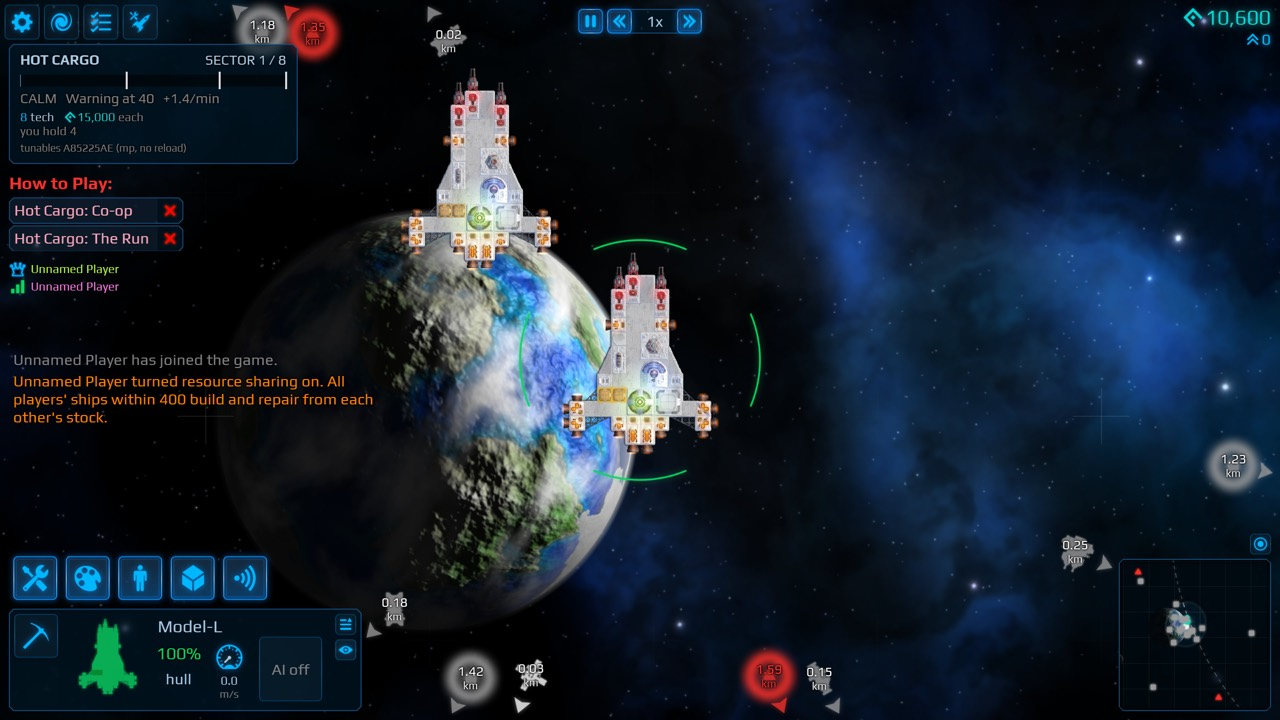
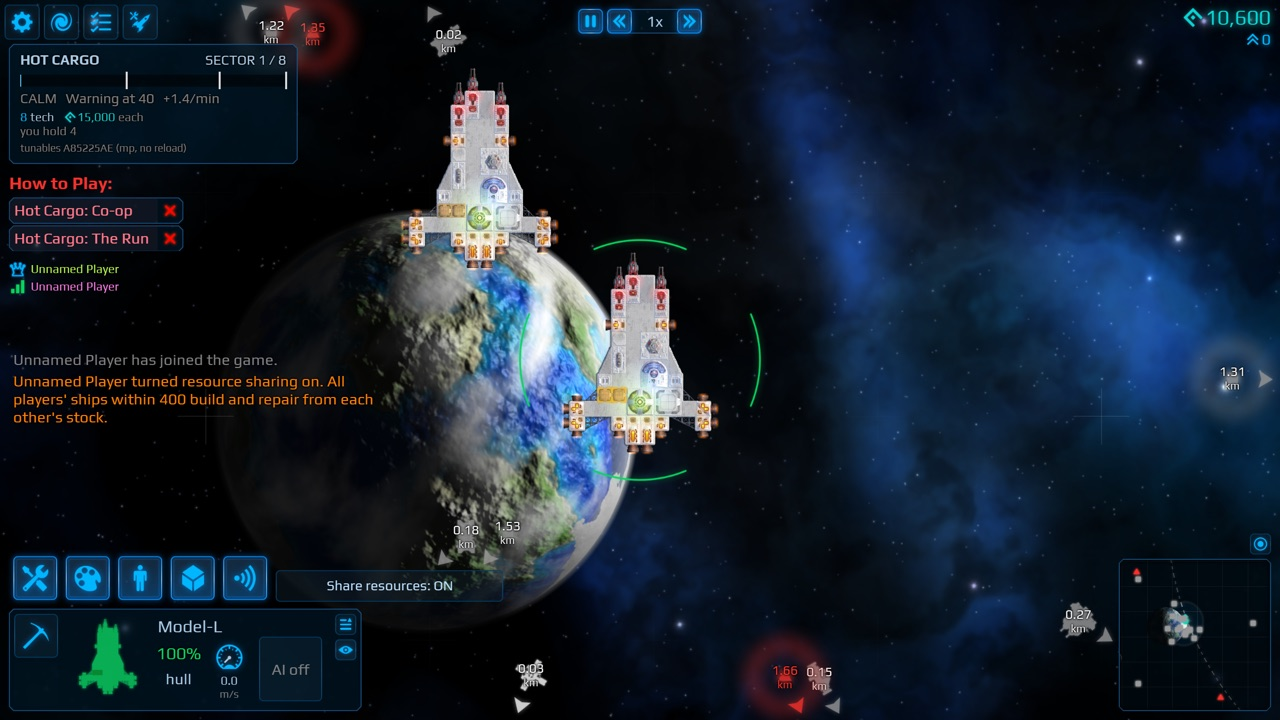
fix(tactics): show the co-op Share resources switch
CopySettingsFrom reset the bottom-left anchor, so the switch sat above the
top of the screen. The switch and the listen-in list now go right of the
ship tool buttons, above every vanilla panel (GameGui.IndicatorBlockers).
share_hud reports real visibility. Test commands deselect, commsbox,
share_hud_report and ev_dismiss.

diff --git a/src/HotCargo/Ux/HudStack.cs b/src/HotCargo/Ux/HudStack.cs
@@ -1,0 +1,79 @@
+using Cosmoteer.Game.Gui;
+using Halfling.Gui;
+
+namespace HotCargo.Ux;
+
+/// <summary>
+/// Spec 1132, 1318. Places the bottom-left HUD widgets of Hot Cargo (the Share resources switch, the listen-in list) next to the ship tool
+/// buttons, above every vanilla panel in their column, and checks that the players can see them. The panels are the game's own list of UI that covers the view
+/// (GameGui.IndicatorBlockers: the ships card, the tool buttons, the open toolbox, the minimap and others), so a new vanilla panel counts
+/// without a change here.
+/// </summary>
+static class HudStack
+{
+    const float Gap = 8f;
+    static readonly HashSet<Widget> Ours = [];
+
+    /// <summary>
+    /// Adds a Hot Cargo widget to the vanilla indicator blockers, so ship markers move off it as they do off vanilla panels. The stack
+    /// never counts these widgets on its own; a caller names the ones that it sits above.
+    /// </summary>
+    internal static void Register(GameGui gui, Widget widget)
+    {
+        gui.IndicatorBlockers.Add(widget);
+        Ours.Add(widget);
+    }
+
+    /// <summary>Widgets anchored bottom-left: X and Y count from the bottom-left corner of the root, Y up is negative.</summary>
+    internal static void Place(GameGui gui, Widget widget, IEnumerable<Widget?> under)
+    {
+        if (widget.AnchorRect != AnchorPresets.BottomLeft) throw new InvalidOperationException($"{widget.GetType().Name} is not anchored bottom-left");
+        var screen = Box(gui.RootWidget);
+        // First choice: right of the vanilla tool buttons, on their row, so it stays under the chat lines (they end just above the tool
+        // buttons at the largest UI scale). Second choice, when an open window covers that spot (a station comms window), or while the
+        // tool buttons are hidden (no ship selected): the tool button column at the bottom left.
+        var row = gui.ShipGui._toolButtonsBox;
+        float left = row.Children.BorderPadding.Left;
+        float[] columns = Shown(row) ? [Box(row).Right - screen.X, left] : [left];
+        var blockers = Panels(gui).Concat(under.OfType<Widget>().Where(Shown).Select(Box)).ToList();
+        var covers = blockers.Concat(Windows(gui)).ToList();
+        (float X, float Top)? first = null;
+        foreach (float x in columns)
+        {
+            float top = HudStackModel.StackTop(screen, screen.X + x, widget.Width, widget.Height, Gap, blockers);
+            first ??= (x, top);
+            if (!HudStackModel.Visible(new HudBox(screen.X + x, top, widget.Width, widget.Height), screen, covers)) continue;
+            first = (x, top);
+            break;
+        }
+        widget.X = first!.Value.X;
+        widget.Y = first.Value.Top - screen.Bottom;
+    }
+
+    /// <summary>True when the widget is active, on the screen, and under no vanilla panel and no open window.</summary>
+    internal static bool Visible(GameGui gui, Widget widget) =>
+        Shown(widget) && HudStackModel.Visible(Box(widget), Box(gui.RootWidget), Covers(gui));
+
+    /// <summary>For test logs: the widget's rect and the vanilla panels and windows that cover it.</summary>
+    internal static string Report(GameGui gui, Widget widget)
+    {
+        var me = Box(widget);
+        var covers = gui.IndicatorBlockers.Concat(gui.FloatingWindows.Children).Where(w => !Ours.Contains(w) && Shown(w) && Box(w).Overlaps(me)).Select(w => $"{w.GetType().Name} {Box(w)}");
+        return $"{me} on screen {Box(gui.RootWidget)}: active {widget.IsActive}, covered by [{string.Join(", ", covers)}]";
+    }
+
+    static IEnumerable<HudBox> Panels(GameGui gui) => gui.IndicatorBlockers.Where(w => !Ours.Contains(w) && Shown(w)).Select(Box);
+
+    static IEnumerable<HudBox> Windows(GameGui gui) => gui.FloatingWindows.Children.Where(Shown).Select(Box);
+
+    static IEnumerable<HudBox> Covers(GameGui gui) => Panels(gui).Concat(Windows(gui));
+
+    /// <summary>Active and not of zero size (hidden tween states have zero size, as in spec 1481).</summary>
+    static bool Shown(Widget w) => w.IsActive && w.ScreenRect.Width >= 1f && w.ScreenRect.Height >= 1f;
+
+    static HudBox Box(Widget w)
+    {
+        var r = w.ScreenRect;
+        return new HudBox(r.X, r.Y, r.Width, r.Height);
+    }
+}

diff --git a/src/HotCargo/Tactics/ShareResourcesHud.cs b/src/HotCargo/Tactics/ShareResourcesHud.cs
@@ -10,20 +10,26 @@ using HotCargo.Core;
 namespace HotCargo.Tactics;
 
 /// <summary>
-/// Spec 1318. Co-op only: the "Share resources" switch above the comms button, under the listen-in list (requirement 1132).
-/// GUI only: a click sends the MP input; the label reads the run state.
+/// Spec 1318. Co-op only: the "Share resources" switch right of the ship tool buttons, above every vanilla panel in its column
+/// (Ux.HudStack), under the listen-in list (requirement 1132). GUI only: a click sends the MP input; the label reads the run state.
 /// </summary>
 static class ShareResourcesHud
 {
-    const float Width = 260f, Height = 36f, Gap = 8f;
+    const float Width = 260f, Height = 36f;
     static ImageButton? _button;
-    static object? _game;
+    static Cosmoteer.Game.GameRoot? _game;
 
-    /// <summary>Space that the switch takes above the comms button, so the listen-in list sits above it.</summary>
-    internal static float ReservedHeight => _button is { SelfActive: true } ? Height + Gap : 0f;
+    /// <summary>The switch, for the listen-in list that stacks above it. Null before the first frame of a co-op game.</summary>
+    internal static Widget? Button => _button;
 
-    /// <summary>For autotests and screenshots: the label that the switch shows now, or null while it is hidden.</summary>
-    internal static string? Label => _button is { SelfActive: true } b ? b.Text.ToString() : null;
+    /// <summary>
+    /// For autotests: the label that the switch shows now, or null while the players cannot see it: hidden, off the screen, or under a
+    /// vanilla panel or an open window (Ux.HudStack.Visible).
+    /// </summary>
+    internal static string? Label => _button is { } b && _game is { } g && Ux.HudStack.Visible(g.Gui, b) ? b.Text.ToString() : null;
+
+    /// <summary>For test logs: where the switch is and what covers it.</summary>
+    internal static string Report() => _button is { } b && _game is { } g ? Ux.HudStack.Report(g.Gui, b) : "no switch yet";
 
     [HarmonyPatch(typeof(CareerGameModeManager), nameof(CareerGameModeManager.Update))]
     static class FramePatch
@@ -42,8 +48,11 @@ static class ShareResourcesHud
         var game = run.Game;
         if (_button is null || _game != game)
         {
-            var b = new ImageButton { AnchorRect = AnchorPresets.BottomLeft, Width = Width, Height = Height, InputBlockMode = InputBlockMode.Auto };
+            var b = new ImageButton();
+            // CopySettingsFrom copies the anchor, the size and the input block mode too, so they are set after it.
             b.CopySettingsFrom(WidgetRules.Instance.FlatButton);
+            b.AnchorRect = AnchorPresets.BottomLeft;
+            b.InputBlockMode = InputBlockMode.Auto;
             b.Width = Width;
             b.Height = Height;
             foreach (var r in new[] { b.StateNormalTextRenderer, b.StateHighlightedTextRenderer, b.StatePressedTextRenderer, b.StateDisabledTextRenderer })
@@ -54,15 +63,12 @@ static class ShareResourcesHud
             var top = game.Gui.RootWidget.Children;
             int windows = top.IndexOf(game.Gui.FloatingWindows);
             if (windows >= 0) top.Insert(windows, b); else top.Add(b);
+            Ux.HudStack.Register(game.Gui, b);
             (_button, _game) = (b, game);
         }
         _button.SelfActive = game.HumanPlayersIndexes.Count > 1 && game.MapDisplayFactor < 1f;
         if (!_button.SelfActive) return;
         _button.Text = Ai.AiText.Text(run.State.SharedResources ? "ShareButtonOn" : "ShareButtonOff");
-        // Above the comms button, or above the comms box while it is open. Without the button (no ship selected): above the tool row.
-        var root = game.Gui.RootWidget.ScreenRect;
-        var below = mode.CommsToolbox is { SelfActive: true } box ? box.ScreenRect : mode._commsBtn is { SelfActive: true } btn ? btn.ScreenRect : (Rect?)null;
-        _button.X = below is { } r1 ? r1.X - root.X : 10f;
-        _button.Y = below is { } r2 ? r2.Y - root.Bottom - Gap - Height : -80f - Height;
+        Ux.HudStack.Place(game.Gui, _button, []);
     }
 }

diff --git a/src/HotCargo/Ux/HudStackModel.cs b/src/HotCargo/Ux/HudStackModel.cs
@@ -1,0 +1,42 @@
+namespace HotCargo.Ux;
+
+/// <summary>An axis-aligned box in GUI units, Y down. No game types.</summary>
+public readonly record struct HudBox(float X, float Y, float Width, float Height)
+{
+    public float Right => X + Width;
+    public float Bottom => Y + Height;
+
+    /// <summary>True when the two boxes share area. Boxes that only touch do not overlap.</summary>
+    public bool Overlaps(HudBox o) => X < o.Right && o.X < Right && Y < o.Bottom && o.Y < Bottom;
+
+    /// <summary>True when this box lies inside the other, with half a GUI unit of slack for rounding (as spec 1481).</summary>
+    public bool Inside(HudBox o) => X >= o.X - 0.5f && Y >= o.Y - 0.5f && Right <= o.Right + 0.5f && Bottom <= o.Bottom + 0.5f;
+}
+
+/// <summary>Spec 1132, 1318: where the bottom-left HUD widgets of Hot Cargo go, and whether the players can see them. No game types.</summary>
+public static class HudStackModel
+{
+    /// <summary>
+    /// The top of a widget in a column: as low as possible (gap above the screen bottom), but above every blocker that it overlaps.
+    /// Each pass moves it above the highest blocker that it overlaps, so it never overlaps that blocker again: at most one pass per blocker.
+    /// </summary>
+    public static float StackTop(HudBox screen, float x, float width, float height, float gap, IReadOnlyList<HudBox> blockers)
+    {
+        if (!(width > 0 && height > 0 && gap >= 0)) throw new ArgumentOutOfRangeException(nameof(width), $"size {width}x{height}, gap {gap}");
+        float top = screen.Bottom - gap - height;
+        for (int pass = 0; pass <= blockers.Count; pass++)
+        {
+            var me = new HudBox(x, top, width, height);
+            float? highest = null;
+            foreach (var b in blockers)
+                if (me.Overlaps(b)) highest = Math.Min(highest ?? b.Y, b.Y);
+            if (highest is not { } y) return top;
+            top = y - gap - height;
+        }
+        throw new InvalidOperationException("the HUD stack did not settle");
+    }
+
+    /// <summary>True when the widget lies inside the screen and no blocker (a panel or an open window) covers any part of it.</summary>
+    public static bool Visible(HudBox widget, HudBox screen, IEnumerable<HudBox> blockers) =>
+        widget.Inside(screen) && !blockers.Any(widget.Overlaps);
+}

diff --git a/tests/HotCargo.Tests/HudStackModelTests.cs b/tests/HotCargo.Tests/HudStackModelTests.cs
@@ -1,0 +1,42 @@
+using HotCargo.Ux;
+using Xunit;
+
+namespace HotCargo.Tests;
+
+public class HudStackModelTests
+{
+    static readonly HudBox Screen = new(0, 0, 1280, 720);
+
+    [Fact]
+    public void Without_panels_the_widget_sits_a_gap_above_the_bottom()
+    {
+        Assert.Equal(720 - 8 - 36, HudStackModel.StackTop(Screen, 15, 260, 36, 8, []));
+    }
+
+    [Fact]
+    public void The_widget_goes_above_every_panel_in_its_column()
+    {
+        // The ships card at the bottom and the tool buttons on it, as with a ship selected.
+        HudBox card = new(10, 610, 350, 100), tools = new(15, 556, 230, 44);
+        float top = HudStackModel.StackTop(Screen, 15, 260, 36, 8, [card, tools]);
+        Assert.Equal(556 - 8 - 36, top);
+        Assert.True(HudStackModel.Visible(new HudBox(15, top, 260, 36), Screen, [card, tools]));
+    }
+
+    [Fact]
+    public void A_panel_outside_the_column_or_above_the_widget_does_not_move_it()
+    {
+        HudBox minimap = new(1100, 540, 170, 170), topPanel = new(10, 40, 290, 120);
+        Assert.Equal(720 - 8 - 36, HudStackModel.StackTop(Screen, 15, 260, 36, 8, [minimap, topPanel]));
+    }
+
+    [Fact]
+    public void Visible_is_false_off_the_screen_or_under_a_panel()
+    {
+        // The playtest bug: the switch lost its bottom anchor and sat above the top edge.
+        Assert.False(HudStackModel.Visible(new HudBox(255, -231, 260, 36), Screen, []));
+        Assert.False(HudStackModel.Visible(new HudBox(15, 600, 260, 36), Screen, [new HudBox(10, 610, 350, 100)]));
+        // Touching edges is not an overlap.
+        Assert.True(HudStackModel.Visible(new HudBox(15, 574, 260, 36), Screen, [new HudBox(10, 610, 350, 100)]));
+    }
+}

diff --git a/src/HotCargo/SharedChoice/ListenIn.cs b/src/HotCargo/SharedChoice/ListenIn.cs
@@ -135,6 +135,7 @@ public static class ListenIn
             var top = game.Gui.RootWidget.Children;
             int windows = top.IndexOf(game.Gui.FloatingWindows);
             if (windows >= 0) top.Insert(windows, _bar); else top.Add(_bar);
+            Ux.HudStack.Register(game.Gui, _bar);
             _barGame = game;
             _shown = [];
         }
@@ -169,13 +170,8 @@ public static class ListenIn
             ((ImageButton)_bar.Children[i]).Text = SharedChoices.Format(key, PlayerName(run, h.CallerPlayer, role == HailRole.Join), h.Callee.Metadata.PlainShipName);
         }
         _bar.Height = _shown.Count * (ButtonHeight + Gap);
-        // Above the comms button, or above the comms box while it is open. Without the button (no ship selected): above the tool row.
-        var root = game.Gui.RootWidget.ScreenRect;
-        var below = mode.CommsToolbox is { SelfActive: true } box ? box.ScreenRect : mode._commsBtn is { SelfActive: true } btn ? btn.ScreenRect : (Rect?)null;
-        _bar.X = below is { } r1 ? r1.X - root.X : 10f;
-        // The co-op resource switch (spec 1318) sits directly above the comms button, so the list goes above it.
-        float reserved = Tactics.ShareResourcesHud.ReservedHeight;
-        _bar.Y = below is { } r2 ? r2.Y - root.Bottom - Gap - _bar.Height - reserved : -80f - _bar.Height - reserved;
+        // Above every vanilla panel in the tool button column, and above the co-op resource switch (spec 1318).
+        Ux.HudStack.Place(game.Gui, _bar, [Tactics.ShareResourcesHud.Button]);
     }
 
     [HarmonyPatch(typeof(CommWindow), nameof(CommWindow.OnParented))]

diff --git a/src/HotCargo/Ux/UxArea.cs b/src/HotCargo/Ux/UxArea.cs
@@ -133,6 +133,15 @@ public static class UxArea
             var sim = Autotest.RequireRun().Game.Sim;
             sim.PlayerInput.SelectSingleShip(sim.Ships.LocalPlayerShips.FirstOrDefault() ?? throw new InvalidOperationException("no own ship"));
         };
+        // deselect: no own ship is selected, so the ships card and the ship tool buttons hide.
+        Autotest.Commands["deselect"] = _ => Autotest.RequireRun().Game.Sim.PlayerInput.ClearSelectedShips();
+        // commsbox open|close: opens or closes the comms toolbox (the list of ships to hail), like the comms button. It needs a selected ship.
+        Autotest.Commands["commsbox"] = arg => Autotest.RequireRun().Mode._commsBtn.IsSelected = arg.Trim() switch
+        {
+            "open" => true,
+            "close" => false,
+            _ => throw new InvalidOperationException("commsbox needs: open | close"),
+        };
         Autotest.Commands["closepanel"] = _ => CenterPanel.CloseAll();
         // comms open|contract|chain|close: opens a comms window from the first own ship to the nearest trading station
         // (contract: the station of the offer that contract_pick chose; chain: the test chain's station), or closes it.

diff --git a/src/HotCargo/Tactics/PoolAutotest.cs b/src/HotCargo/Tactics/PoolAutotest.cs
@@ -17,8 +17,10 @@ static class PoolAutotest
     public static void Register()
     {
         Autotest.Fields["share_on"] = () => Autotest.RequireRun().State.SharedResources ? 1 : 0;
-        // 1 while the local switch shows ON, 0 while it shows OFF, -1 while it is hidden.
+        // 1 while the local switch shows ON, 0 while it shows OFF, -1 while the players cannot see it (hidden, off the screen, or under a
+        // vanilla panel or an open window). share_hud_report logs where it is and what covers it.
         Autotest.Fields["share_hud"] = () => ShareResourcesHud.Label is not { } label ? -1 : label == Ai.AiText.Text("ShareButtonOn") ? 1 : 0;
+        Autotest.Commands["share_hud_report"] = _ => Log.Info($"AUTOTEST share switch: {ShareResourcesHud.Report()}");
         foreach (int p in new[] { 0, 1 })
         {
             int player = p;

diff --git a/src/HotCargo/Events/EventsArea.cs b/src/HotCargo/Events/EventsArea.cs
@@ -188,6 +188,8 @@ public static class EventsArea
             "on" => true, "off" => false, _ => throw new InvalidOperationException("ev_pause needs: on|off"),
         };
         // ev_set <EventsTunables field> <value>: changes a live tunable for this run. Test only.
+        // ev_dismiss: the local player closes the result page of the last event choice (GUI only).
+        Autotest.Commands["ev_dismiss"] = _ => EventDialog.DismissResult(RequireRun());
         Autotest.Commands["ev_set"] = arg =>
         {
             var parts = arg.Split(' ', StringSplitOptions.RemoveEmptyEntries);

diff --git a/src/HotCargo/Events/EventDialog.cs b/src/HotCargo/Events/EventDialog.cs
@@ -96,6 +96,9 @@ internal sealed class EventDialog : WindowBox
         }
     }
 
+    /// <summary>Autotests: the local player closes the result page of the last choice, like its OK button. A waiting page stays open.</summary>
+    internal static void DismissResult(Run run) => _resultShown = Math.Max(_resultShown, run.State.Events.LastResult?.Serial ?? 0);
+
     /// <summary>Autotests: false (the default) keeps windowed test games unpaused too. A test sets it with the ev_pause command.</summary>
     internal static bool PauseInAutotest;
 

diff --git a/spec/53-ai-upkeep.md b/spec/53-ai-upkeep.md
@@ -40,9 +40,9 @@ These rules extend fall back (requirement 47) for every AI that runs it (require
 
 ### Shared resources in co-op
 
-1318. **Share resources switch.** In co-op (two or more human players), a "Share resources: ON/OFF" switch sits above the comms button, under the listen-in list (requirement 1132). Any human player can press it. A press sends the MP input `HotCargoShareResources`; the sim flips the switch and every player gets a chat line that names who turned sharing on or off. While it is on, the ships of all human players count as the same player for construction (the rule of requirement 1307): they share construction and repair resources within the vanilla pool range (400), crews carry and fetch across them, and they help each other build, like the ships of one player's fleet. Off (the default): vanilla behavior. A player never pools with an AI ship.
+1318. **Share resources switch.** In co-op (two or more human players), a "Share resources: ON/OFF" switch sits right of the ship tool buttons, on their row (in the tool button column, above the vanilla panels there, while an open window covers that spot or no ship is selected), above every vanilla panel in its column (the game's own list of UI that covers the view, `GameGui.IndicatorBlockers`: the ships card, the tool buttons, the open toolbox), under the listen-in list (requirement 1132). Any human player can press it. A press sends the MP input `HotCargoShareResources`; the sim flips the switch and every player gets a chat line that names who turned sharing on or off. While it is on, the ships of all human players count as the same player for construction (the rule of requirement 1307): they share construction and repair resources within the vanilla pool range (400), crews carry and fetch across them, and they help each other build, like the ships of one player's fleet. Off (the default): vanilla behavior. A player never pools with an AI ship.
 1319. **One rule, state and hash.** `PoolModel.Pools` decides for every pair: the same player index (vanilla), two AI ships of one faction (requirement 1307), or two human ships while the switch is on. The switch is run state (`RunState.SharedResources`): saved with the run and part of the co-op integrity hash. All decisions read sim and run state only.
-1320. **Tests.** Unit test `PoolModelTests`. The co-op step `tactics.share-resources` (`tests/autotest-mp/coop-economy.txt`): player 1's ship has no steel and sits next to player 0's ship; the client turns sharing on with the real input; both machines show the switch on; player 1's usable steel grows by player 0's stock; and player 1's crew rebuild a part with player 0's steel.
+1320. **Tests.** Unit test `PoolModelTests`. The co-op step `tactics.share-resources` (`tests/autotest-mp/coop-economy.txt`): player 1's ship has no steel and sits next to player 0's ship; the client turns sharing on with the real input; both machines show the switch on; the client can see the switch (`share_hud`: on the screen and under no vanilla panel or open window) with no ship selected, with a ship selected and with the comms box open; player 1's usable steel grows by player 0's stock; and player 1's crew rebuild a part with player 0's steel.
 
 ### Repairs from wrecks and loose resources
 

diff --git a/spec/47-co-op-listen-in.md b/spec/47-co-op-listen-in.md
@@ -3,7 +3,7 @@
 In co-op, the other players listen in on a running hail and vote on its choices. Code: `src/HotCargo/SharedChoice/ListenIn.cs`, pure rules in `ListenInModel.cs`, the read-only rules in `src/HotCargo/Ui/CommsHail.cs`. Votes use section 32.
 
 1131. **Hails.** A hail runs while a player's ship has open comms with a ship that shows a dialogue tab to it. The source is the vanilla sim set `CareerSimModeManager.OpenComms` (changed by `MPOpenCommsInput` and `MPCloseCommsInput`), so every machine has the same hails and listen-in sends no new message.
-1132. **Listen list.** Every player of another player index sees a "Listen in: <player> talks to <ship>" button above their own comms button (above the comms box while it is open, above the tool row while no ship is selected). With several hails the list has one button per speaker and ship, ordered by ship ID. The list refreshes every `Ux.HudRefreshSeconds` (requirement 872). Decision: plain "talks to" instead of an arrow, because the game font may lack the arrow glyph.
+1132. **Listen list.** Every player of another player index sees a "Listen in: <player> talks to <ship>" button right of the ship tool buttons (in the tool button column while an open window covers that spot or no ship is selected), above every vanilla panel in its column and above the Share resources switch (requirement 1318). With several hails the list has one button per speaker and ship, ordered by ship ID. The list refreshes every `Ux.HudRefreshSeconds` (requirement 872). Decision: plain "talks to" instead of an arrow, because the game font may lack the arrow glyph.
 1133. **Listen window.** A click opens the vanilla comms window with the speaker's ship as caller, in listen mode, and a second click closes it. It shows only the dialogue tab: the same live page as the speaker (text, rows, choices, the shared draft, hovers and votes). Listen mode sends no open comms, close comms or pause input.
 1134. **Read-only.** A listener cannot make the choice: vanilla dialogue buttons, Hot Cargo hail lines and multiselect rows are off. Shared choice buttons and action rows stay on, and a click on one is a vote. Digit keys follow the same rules.
 1135. **Vote mode.** In vote mode a listener's vote is a normal vote (requirements 604 to 606). A vote is not a pick, so in vote mode a choice that closes the window on a pick (for example "Fight") keeps it open for the speaker too, and the voter sees the votes.

diff --git a/README.md b/README.md
@@ -130,9 +130,9 @@ Spec: [Co-op listen-in](spec/47-co-op-listen-in.md)
 <details>
 <summary><b>Share resources</b>: one switch pools the whole crew's steel and parts</summary>
 
-In co-op, a "Share resources" switch sits above the comms button. Any player can flip it. While it is on, everyone's ships share construction resources and help each other build, like one player's fleet. A chat line says who turned it on or off.
+In co-op, a "Share resources" switch sits next to the ship tool buttons. Any player can flip it. While it is on, everyone's ships share construction resources and help each other build, like one player's fleet. A chat line says who turned it on or off.
 
-<img src="docs/screenshots/coop-share.jpg" width="70%" alt="The chat line after a player turns resource sharing on">
+<img src="docs/screenshots/coop-share.jpg" width="70%" alt="The Share resources switch, on, next to the ship tool buttons, and the chat line after a player turns it on">
 
 Spec: [AI upkeep, requirements 1318 to 1320](spec/53-ai-upkeep.md)
 </details>
